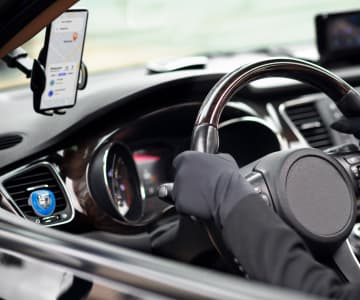
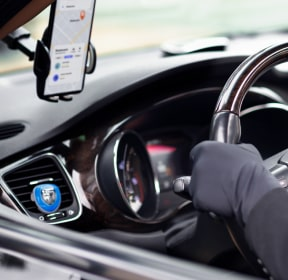
add section portfolio adaptive

diff --git a/index.html b/index.html
@@ -386,18 +386,41 @@
       </section>
 
       <!-- SECTION OUR PORTFOLIO -->
-      <section class="section-portfolio section-paddings hiden">
+      <section class="section-portfolio section-paddings">
         <div class="container portfolio-conteiner">
           <h2 class="section-title portfolio-title">Our Portfolio</h2>
-          <ul class="portfolio">
+          <ul class="portfolio-list">
             <li class="portfolio-list-item">
               <div class="portfolio-overlay">
-                <img
-                  src="./images/our-portfolio/banking-app.jpg"
-                  alt="Banking app interface"
-                  width="360"
-                  height="300"
-                />
+                <picture>
+                  <source
+                    srcset="
+                      ./images/our-portfolio/desktop/desktop-banking-app.jpg    1x,
+                      ./images/our-portfolio/desktop/desktop-banking-app@2x.jpg 2x
+                    "
+                    media="(min-width: 1158px)"
+                  />
+                  <source
+                    srcset="
+                      ./images/our-portfolio/tablet/tablet-banking-app.jpg    1x,
+                      ./images/our-portfolio/tablet/tablet-banking-app@2x.jpg 2x
+                    "
+                    media="(min-width: 768px)"
+                  />
+                  <source
+                    srcset="
+                      ./images/our-portfolio/banking-app.jpg    1x,
+                      ./images/our-portfolio/banking-app@2x.jpg 2x
+                    "
+                    media="(max-width: 767px)"
+                  />
+                  <img
+                    src="./images/our-portfolio/banking-app.jpg"
+                    alt="Banking app interface"
+                    width="360"
+                    height="300"
+                  />
+                </picture>
                 <p class="portfolio-overlay-text">
                   14 Stylish and User-Friendly App Design Concepts · Task Manager App · Calorie
                   Tracker App · Exotic Fruit Ecommerce App · Cloud Storage App
@@ -410,12 +433,35 @@
             </li>
             <li class="portfolio-list-item">
               <div class="portfolio-overlay">
-                <img
-                  src="./images/our-portfolio/cashless-payment.jpg"
-                  alt="Cashless payment process"
-                  width="360"
-                  height="300"
-                />
+                <picture>
+                  <source
+                    srcset="
+                      ./images/our-portfolio/desktop/desktop-cashless-payment.jpg    1x,
+                      ./images/our-portfolio/desktop/desktop-cashless-payment@2x.jpg 2x
+                    "
+                    media="(min-width: 1158px)"
+                  />
+                  <source
+                    srcset="
+                      ./images/our-portfolio/tablet/tablet-cashless-payment.jpg    1x,
+                      ./images/our-portfolio/tablet/tablet-cashless-payment@2x.jpg 2x
+                    "
+                    media="(min-width: 768px)"
+                  />
+                  <source
+                    srcset="
+                      ./images/our-portfolio/cashless-payment.jpg    1x,
+                      ./images/our-portfolio/cashless-payment@2x.jpg 2x
+                    "
+                    media="(max-width: 767px)"
+                  />
+                  <img
+                    src="./images/our-portfolio/cashless-payment.jpg"
+                    alt="Cashless payment process"
+                    width="360"
+                    height="300"
+                  />
+                </picture>
                 <p class="portfolio-overlay-text">
                   14 Stylish and User-Friendly App Design Concepts · Task Manager App · Calorie
                   Tracker App · Exotic Fruit Ecommerce App · Cloud Storage App
@@ -428,12 +474,35 @@
             </li>
             <li class="portfolio-list-item">
               <div class="portfolio-overlay">
-                <img
-                  src="./images/our-portfolio/meditation-app.jpg"
-                  alt="Meditation App"
-                  width="360"
-                  height="300"
-                />
+                <picture>
+                  <source
+                    srcset="
+                      ./images/our-portfolio/desktop/desktop-meditation-app.jpg    1x,
+                      ./images/our-portfolio/desktop/desktop-meditation-app@2x.jpg 2x
+                    "
+                    media="(min-width: 1158px)"
+                  />
+                  <source
+                    srcset="
+                      ./images/our-portfolio/tablet/tablet-meditation-app.jpg    1x,
+                      ./images/our-portfolio/tablet/tablet-meditation-app@2x.jpg 2x
+                    "
+                    media="(min-width: 768px)"
+                  />
+                  <source
+                    srcset="
+                      ./images/our-portfolio/meditation-app.jpg    1x,
+                      ./images/our-portfolio/meditation-app@2x.jpg 2x
+                    "
+                    media="(max-width: 767px)"
+                  />
+                  <img
+                    src="./images/our-portfolio/meditation-app.jpg"
+                    alt="Meditation App"
+                    width="360"
+                    height="300"
+                  />
+                </picture>
                 <p class="portfolio-overlay-text">
                   14 Stylish and User-Friendly App Design Concepts · Task Manager App · Calorie
                   Tracker App · Exotic Fruit Ecommerce App · Cloud Storage App
@@ -446,12 +515,35 @@
             </li>
             <li class="portfolio-list-item">
               <div class="portfolio-overlay">
-                <img
-                  src="./images/our-portfolio/taxi-service.jpg"
-                  alt="Taxi Service"
-                  width="360"
-                  height="300"
-                />
+                <picture>
+                  <source
+                    srcset="
+                      ./images/our-portfolio/desktop/desktop-taxi-service.jpg    1x,
+                      ./images/our-portfolio/desktop/desktop-taxi-service@2x.jpg 2x
+                    "
+                    media="(min-width: 1158px)"
+                  />
+                  <source
+                    srcset="
+                      ./images/our-portfolio/tablet/tablet-taxi-service.jpg    1x,
+                      ./images/our-portfolio/tablet/tablet-taxi-service@2x.jpg 2x
+                    "
+                    media="(min-width: 768px)"
+                  />
+                  <source
+                    srcset="
+                      ./images/our-portfolio/taxi-service.jpg    1x,
+                      ./images/our-portfolio/taxi-service@2x.jpg 2x
+                    "
+                    media="(max-width: 767px)"
+                  />
+                  <img
+                    src="./images/our-portfolio/taxi-service.jpg"
+                    alt="Taxi Service"
+                    width="360"
+                    height="300"
+                  />
+                </picture>
                 <p class="portfolio-overlay-text">
                   14 Stylish and User-Friendly App Design Concepts · Task Manager App · Calorie
                   Tracker App · Exotic Fruit Ecommerce App · Cloud Storage App
@@ -464,12 +556,35 @@
             </li>
             <li class="portfolio-list-item">
               <div class="portfolio-overlay">
-                <img
-                  src="./images/our-portfolio/screen-illustrations.jpg"
-                  alt="Screen Illustrations"
-                  width="360"
-                  height="300"
-                />
+                <picture>
+                  <source
+                    srcset="
+                      ./images/our-portfolio/desktop/desktop-screen-illustrations.jpg    1x,
+                      ./images/our-portfolio/desktop/desktop-screen-illustrations@2x.jpg 2x
+                    "
+                    media="(min-width: 1158px)"
+                  />
+                  <source
+                    srcset="
+                      ./images/our-portfolio/tablet/tablet-screen-illustrations.jpg    1x,
+                      ./images/our-portfolio/tablet/tablet-screen-illustrations@2x.jpg 2x
+                    "
+                    media="(min-width: 768px)"
+                  />
+                  <source
+                    srcset="
+                      ./images/our-portfolio/screen-illustrations.jpg    1x,
+                      ./images/our-portfolio/screen-illustrations@2x.jpg 2x
+                    "
+                    media="(max-width: 767px)"
+                  />
+                  <img
+                    src="./images/our-portfolio/screen-illustrations.jpg"
+                    alt="Screen Illustrations"
+                    width="360"
+                    height="300"
+                  />
+                </picture>
                 <p class="portfolio-overlay-text">
                   14 Stylish and User-Friendly App Design Concepts · Task Manager App · Calorie
                   Tracker App · Exotic Fruit Ecommerce App · Cloud Storage App
@@ -482,12 +597,35 @@
             </li>
             <li class="portfolio-list-item">
               <div class="portfolio-overlay">
-                <img
-                  src="./images/our-portfolio/online-courses.jpg"
-                  alt="Online Courses"
-                  width="360"
-                  height="300"
-                />
+                <picture>
+                  <source
+                    srcset="
+                      ./images/our-portfolio/desktop/desktop-online-courses.jpg    1x,
+                      ./images/our-portfolio/desktop/desktop-online-courses@2x.jpg 2x
+                    "
+                    media="(min-width: 1158px)"
+                  />
+                  <source
+                    srcset="
+                      ./images/our-portfolio/tablet/tablet-online-courses.jpg    1x,
+                      ./images/our-portfolio/tablet/tablet-online-courses@2x.jpg 2x
+                    "
+                    media="(min-width: 768px)"
+                  />
+                  <source
+                    srcset="
+                      ./images/our-portfolio/online-courses.jpg    1x,
+                      ./images/our-portfolio/online-courses@2x.jpg 2x
+                    "
+                    media="(max-width: 767px)"
+                  />
+                  <img
+                    src="./images/our-portfolio/online-courses.jpg"
+                    alt="Online Courses"
+                    width="360"
+                    height="300"
+                  />
+                </picture>
                 <p class="portfolio-overlay-text">
                   14 Stylish and User-Friendly App Design Concepts · Task Manager App · Calorie
                   Tracker App · Exotic Fruit Ecommerce App · Cloud Storage App

diff --git a/css/styles.css b/css/styles.css
@@ -654,51 +654,34 @@ body {
 /* =========== /SECTION OUR TEAM STYLES ===========*/
 
 /* =========== SECTION OUR PORTFOLIO STYLES ===========*/
-.portfolio {
-  display: flex;
-  flex-wrap: wrap;
-  gap: 48px 24px;
-}
 .portfolio-title {
   margin-right: auto;
   margin-left: auto;
-  font-weight: 700;
+  margin-bottom: 72px;
+
   font-size: 36px;
-  line-height: 1.11111;
-  letter-spacing: 0.02em;
+  line-height: 1.11;
   text-align: center;
   color: #2e2f42;
-  margin-bottom: 72px;
+}
+.portfolio-list {
+  display: flex;
+  flex-direction: column;
+  justify-content: center;
+  align-items: center;
+  gap: 48px;
 }
 .name-portfolio-title {
+  margin-bottom: 8px;
+
   font-weight: 500;
   font-size: 20px;
   line-height: 1.2;
-  letter-spacing: 0.02em;
   color: #2e2f42;
-  margin-bottom: 8px;
-}
-.portfolio-item {
-  border-bottom: 1px solid #e7e9fc;
-  border-left: 1px solid #e7e9fc;
-  border-right: 1px solid #e7e9fc;
-  padding: 32px 16px;
 }
 .portfolio-list-item {
-  max-width: 360px;
-  height: 420px;
-  transition: box-shadow 250ms cubic-bezier(0.4, 0, 0.2, 1);
-}
-.portfolio-list-item:hover {
-  box-shadow: 0px 1px 6px rgba(46, 47, 66, 0.08), 0px 1px 1px rgba(46, 47, 66, 0.16),
-    0px 2px 1px rgba(46, 47, 66, 0.08);
-}
-.portfolio-text {
-  font-weight: 400;
-  font-size: 16px;
-  line-height: 1.5;
-  letter-spacing: 0.02em;
-  color: #434455;
+  max-width: 288px;
+  height: 400px;
 }
 .portfolio-overlay {
   position: relative;
@@ -711,6 +694,7 @@ body {
   padding: 40px 32px;
   width: 100%;
   height: 100%;
+
   background-color: #4d5ae5;
   font-family: 'Roboto', sans-serif;
   font-size: 16px;
@@ -721,10 +705,48 @@ body {
   transform: translateY(100%);
   transition: transform 250ms cubic-bezier(0.4, 0, 0.2, 1);
 }
+.portfolio-item {
+  padding: 32px 16px;
+
+  border-bottom: 1px solid #e7e9fc;
+  border-left: 1px solid #e7e9fc;
+  border-right: 1px solid #e7e9fc;
+  box-shadow: 0px 1px 6px rgba(46, 47, 66, 0.08), 0px 1px 1px rgba(46, 47, 66, 0.16),
+    0px 2px 1px rgba(46, 47, 66, 0.08);
+}
 .portfolio-list-item:hover .portfolio-overlay-text {
   transform: translateY(0%);
 }
 
+/* TABLET */
+@media screen and (min-width: 768px) {
+  .portfolio-list {
+    flex-direction: row;
+    flex-wrap: wrap;
+    gap: 72px 24px;
+  }
+  .portfolio-list-item {
+    max-width: 356px;
+    height: 420px;
+  }
+}
+
+/* DESKTOP */
+@media screen and (min-width: 1158px) {
+  .portfolio-list {
+    gap: 49px 24px;
+  }
+  .portfolio-list-item {
+    max-width: 360px;
+    height: 420px;
+    box-shadow: none;
+    transition: box-shadow 250ms cubic-bezier(0.4, 0, 0.2, 1);
+  }
+  .portfolio-list-item:hover {
+    box-shadow: 0px 1px 6px rgba(46, 47, 66, 0.08), 0px 1px 1px rgba(46, 47, 66, 0.16),
+      0px 2px 1px rgba(46, 47, 66, 0.08);
+  }
+}
 /* =========== /SECTION OUR PORTFOLIO STYLES ===========*/
 
 /* =========== FOOTER STYLES ===========*/
